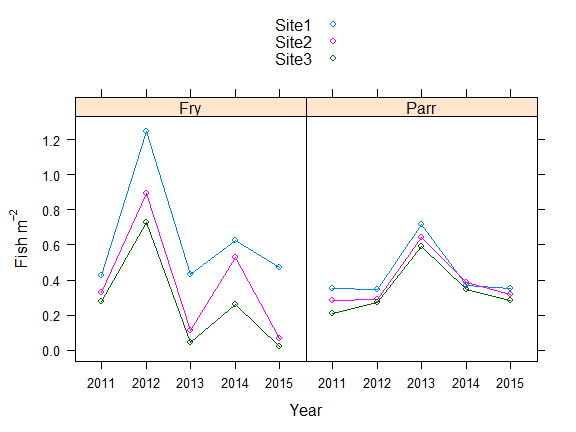
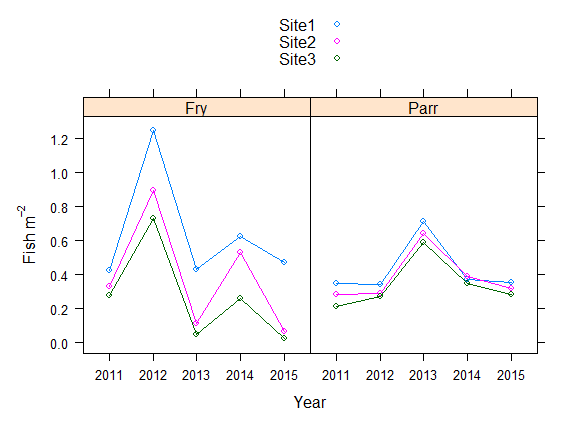
After OD update

diff --git a/README.md b/README.md
@@ -153,7 +153,7 @@ densdata <- left_join(densdata, probs, by = "sampleID")
 
 # Estimate Density
 
-Density (N/m<sup>-2</sup>) is estimated as \(\frac{counts}{area*P}\)
+Density (N/m<sup>-2</sup>) is estimated as $\\frac{counts}{area\*P}$
 
 ``` r
 densdata $ Density_Estimate <- densdata $ count / (densdata $ area *
@@ -162,7 +162,7 @@ densdata $ Density_Estimate <- densdata $ count / (densdata $ area *
 
 If you want to model counts directly (Poisson model), you need to have
 cumulative P and area in the offset. For a Poisson model the offset is
-\(\log({area*cumulativeP})\).
+log (*a**r**e**a*\**c**u**m**u**l**a**t**i**v**e**P*).
 
 ``` r
 densdata $ offset <- log(densdata $ area * densdata $ prob)
@@ -198,13 +198,13 @@ od_estimate <- overdispersion(data = ef_data, visitID = "visitID",
                               largemodel = large_model)
 ```
 
-    ## 3-pass model start time 2021-01-28 16:18:59
+    ## Saturated model start time 2022-02-25 16:54:37
 
-    ## 3-pass model duration = 0.158s
+    ## Saturated model duration =0.172s
 
-    ## Site visit model start time 2021-01-28 16:18:59
+    ## Site visit model start time 2022-02-25 16:54:38
 
-    ## Site visit model duration = 0.134s
+    ## Site visit model duration = 0.105s
 
 View overdispersion estimate. The ‘disp’ column contains the estimates
 of overdispersion and the 3rd row contains the between-visit estimate
@@ -223,9 +223,7 @@ Compare models using the adjusted BIC function (Equation 4, [Millar *et
 al*.,
 2016](https://www.sciencedirect.com/science/article/pii/S0165783616300017))
 
-  - Full model
-
-<!-- end list -->
+-   Full model
 
 ``` r
 mfull <- efp(count ~ pass12 + lifestage + siteID + year,
@@ -236,9 +234,7 @@ BICadj(mfull, ef_data, od_estimate)
 
     ## [1] -3129.338
 
-  - Model without lifestage
-
-<!-- end list -->
+-   Model without lifestage
 
 ``` r
 mlife <- efp(count ~ pass12 + siteID + year,
